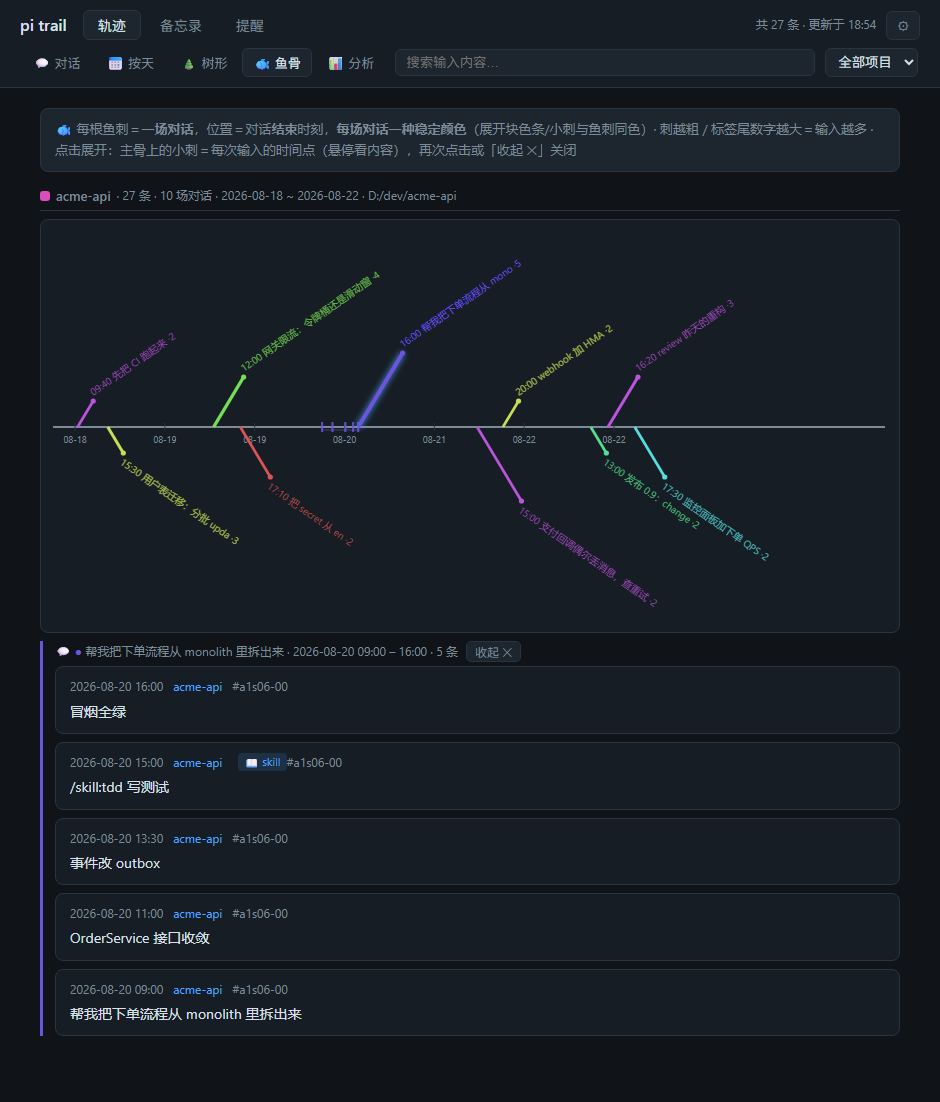
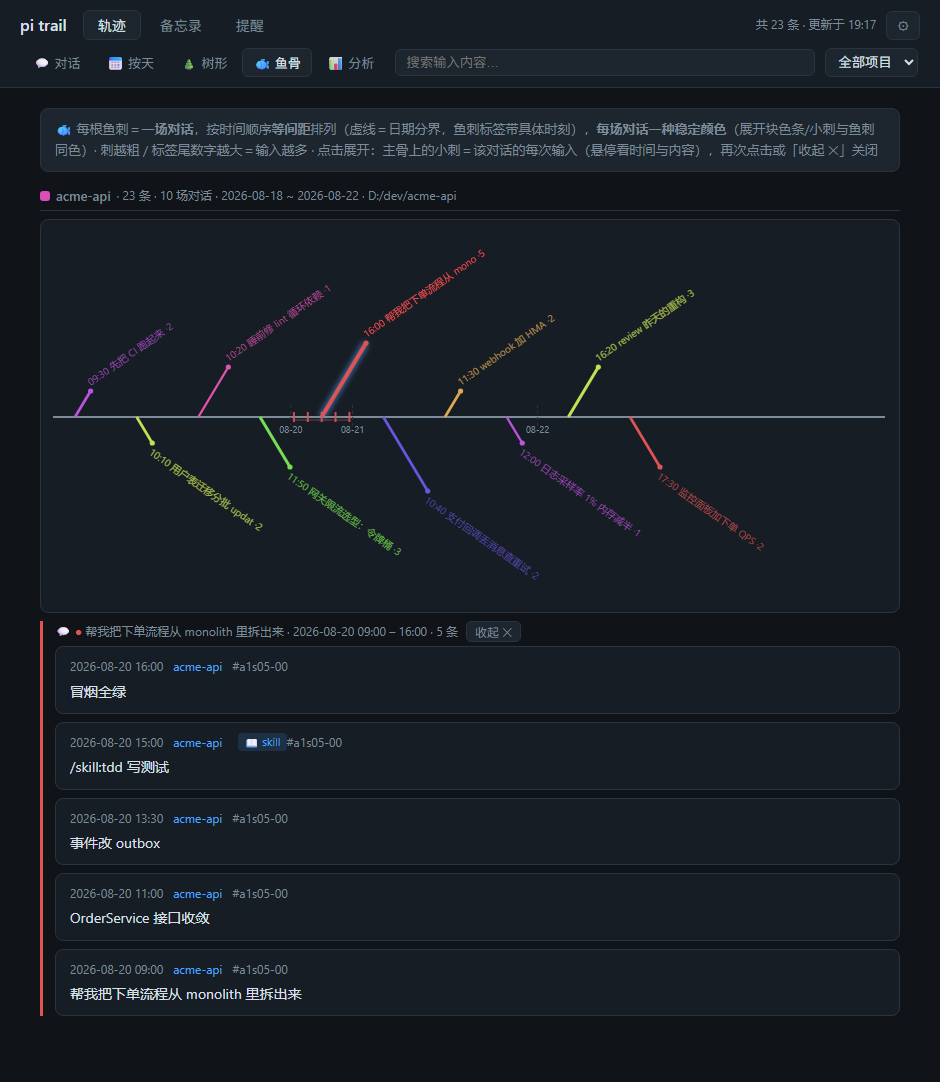
feat: 鱼骨改序数刻度——鱼刺按时间顺序严格等间距，日期分界虚线替代线性时间轴；展开小刺改为对话地盘内等间距；视图默认滚到最右（最新）；README 双语同步更新 + 配图重截

diff --git a/public/index.html b/public/index.html
@@ -465,7 +465,7 @@ function renderFish(list) {
     projs.get(e.cwd).push(e);
   }
   const arr = [...projs.entries()].sort((a, b) => b[1][0].ts - a[1][0].ts); // 最近活跃在前
-  let html = `<div class="introBar">🐟 每根鱼刺＝<b>一场对话</b>，位置＝对话<b>结束</b>时刻，<b>每场对话一种稳定颜色</b>（展开块色条/小刺与鱼刺同色）· 刺越粗 / 标签尾数字越大＝输入越多 · 点击展开：主骨上的小刺＝每次输入的时间点（悬停看内容），再次点击或「收起 ✕」关闭</div>`;
+  let html = `<div class="introBar">🐟 每根鱼刺＝<b>一场对话</b>，按时间顺序<b>等间距</b>排列（虚线＝日期分界，鱼刺标签带具体时刻），<b>每场对话一种稳定颜色</b>（展开块色条/小刺与鱼刺同色）· 刺越粗 / 标签尾数字越大＝输入越多 · 点击展开：主骨上的小刺＝该对话的每次输入（悬停看时间与内容），再次点击或「收起 ✕」关闭</div>`;
   for (const [cwd, items] of arr) {
     const col = projectColor(cwd);
     const convs = new Map();
@@ -476,13 +476,13 @@ function renderFish(list) {
     }
     const cs = [...convs.entries()]
       .map(([sid, es]) => ({ sid, es, start: es.reduce((m, e) => Math.min(m, e.ts), Infinity), end: es.reduce((m, e) => Math.max(m, e.ts), 0) }))
-      .sort((a, b) => a.end - b.end); // 按结束时间排列——鱼刺位置＝对话收尾时刻
+      .sort((a, b) => a.end - b.end); // 按结束时间排序（时间顺序），鱼刺等间距排列（序数刻度）
     const PAD = 30;
     const n = cs.length;
     const nTiers = n > 18 ? 5 : n > 10 ? 4 : 3;
     const tiers = Array.from({ length: nTiers }, (_, i) => 26 + i * 24);
     const maxTier = tiers[tiers.length - 1];
-    const t0 = Math.min(...cs.map((c) => c.start)), t1 = Math.max(...cs.map((c) => c.end), t0 + 1); // 轴域覆盖全部对话的开始到结束
+    const t0 = Math.min(...cs.map((c) => c.start)), t1 = Math.max(...cs.map((c) => c.end), t0 + 1); // 项目头部日期范围用
     const titleLen = n > 18 ? 8 : 12;
     const labelOf = (c) => {
       const t = convTitle(c.es);
@@ -493,25 +493,24 @@ function renderFish(list) {
     const mainW = document.querySelector("main")?.clientWidth || 900;
     const W = Math.max(640, mainW - 52);
     const rightReserve = Math.round(maxLabelW * 0.86 + maxTier * 0.6) + 50;
-    const X = (ts) => PAD + (Math.max(PAD, W - PAD - rightReserve) - PAD) * ((ts - t0) / (t1 - t0));
+    const usable = Math.max(PAD, W - PAD - rightReserve);
     const cos35 = 0.819, sin35 = 0.574;
     const dy = Math.round(maxLabelW * sin35) + 14;
     const spineY = maxTier + dy + 6;
     const H = spineY + maxTier + dy + 8;
-    // 同侧最小间距防重叠（时间序单调，必要时加宽画布）
-    const minGap = 44;
-    const lastX = { u: -Infinity, d: -Infinity };
+    // 序数刻度：鱼刺按时间顺序严格等间距（美观优先；时间关系由鱼刺标签的 HH:MM + 日期分界线表达）
+    const minGap = 44, maxGap = 150;
+    const gap = n > 1 ? Math.min(maxGap, Math.max(minGap, (usable - PAD) / (n - 1))) : 0;
+    const groupW = (n - 1) * gap;
+    const gx0 = n > 1 ? PAD + Math.max(0, (usable - PAD - groupW) / 2) : (PAD + usable) / 2; // 组居中
     let nUp = 0, nDown = 0, maxTipX = 0;
+    let bi = 0;
     for (const c of cs) {
       const side = nUp <= nDown ? -1 : 1;
       c.tier = tiers[(side < 0 ? nUp++ : nDown++) % tiers.length];
       c.side = side;
-      const k = side < 0 ? "u" : "d";
-      let x = X(c.end);
-      if (x - lastX[k] < minGap) x = lastX[k] + minGap;
-      lastX[k] = x;
-      c.x = x;
-      maxTipX = Math.max(maxTipX, x + c.tier * 0.6);
+      c.x = gx0 + gap * bi++;
+      maxTipX = Math.max(maxTipX, c.x + c.tier * 0.6);
     }
     const W2 = Math.max(W, Math.round(maxTipX + maxLabelW * 0.86 + 42));
     // 每项目手风琴：同时只展开一场对话（对应关系一目了然）
@@ -529,29 +528,36 @@ function renderFish(list) {
       const bcol = convColor(c.sid);
       bones += `<g class="bone ${open ? "on" : ""}" data-key="${esc(pfx + ":" + c.sid)}" tabindex="0" role="button" aria-expanded="${open}" title="${esc(`${lb.full}\n${projName(cwd)} · ${c.es.length} 条 · ${fmtDate(c.start)} ${fmtTime(c.start)} – ${fmtTime(c.end)}（开始–结束）`)}"><line class="hit" x1="${bx}" y1="${spineY}" x2="${tipX}" y2="${tipY}" stroke="transparent" stroke-width="16"/><line x1="${bx}" y1="${spineY}" x2="${tipX}" y2="${tipY}" stroke="${bcol}" stroke-width="${Math.min(2 + c.es.length * 0.35, 5)}"/><circle cx="${tipX}" cy="${tipY}" r="2.6" fill="${bcol}"/><text x="${tipX + 3}" y="${ly}" transform="rotate(${rot} ${tipX} ${tipY})" fill="${bcol}" font-size="10">${esc(lb.s)}</text></g>`;
     }
-    // 展开对话的小刺：主骨上标记该对话每次输入的时间点，跨度线连到鱼刺根部
+    // 展开对话的小刺：在鱼刺根两侧的「地盘」内按输入顺序等间距排布，跨度线覆盖首尾小刺
     let subSpurs = "";
     if (openSid) {
       const oc = cs.find((x) => x.sid === openSid);
       if (oc) {
         const scol = convColor(oc.sid);
-        const x0 = Math.max(8, X(oc.start));
-        subSpurs += `<line x1="${x0}" y1="${spineY + 3}" x2="${oc.x}" y2="${spineY + 3}" stroke="${scol}" stroke-width="1.5" opacity="0.35"/>`;
-        for (const e of oc.es) {
-          const x = Math.min(W2 - 8, Math.max(8, X(e.ts)));
+        const half = Math.max(12, Math.min((gap || 90) * 0.45, 60));
+        const sorted = oc.es.slice().sort((a, b) => a.ts - b.ts);
+        const m = sorted.length;
+        const xOf = (k) => (m === 1 ? oc.x : oc.x - half + (2 * half * k) / (m - 1));
+        subSpurs += `<line x1="${xOf(0)}" y1="${spineY + 3}" x2="${xOf(m - 1)}" y2="${spineY + 3}" stroke="${scol}" stroke-width="1.5" opacity="0.35"/>`;
+        sorted.forEach((e, k) => {
+          const x = xOf(k);
           subSpurs += `<line x1="${x}" y1="${spineY - 5}" x2="${x}" y2="${spineY + 5}" stroke="${scol}" stroke-width="2" opacity="0.9"><title>${esc(`${fmtTime(e.ts)} ${e.text.slice(0, 24).replace(/\n/g, " ")}`)}</title></line>`;
-        }
+        });
       }
     }
-    // 时间刻度：跨度 > 1.5 天显示日期，否则显示时刻
-    const spanDays = (t1 - t0) / 86400000;
+    // 日期分界（序数轴的时间参照）：相邻两日鱼刺的中点画短虚线，标签标新一日
     let ticks = "";
-    for (let i = 0; i <= 6; i++) {
-      const tt = t0 + ((t1 - t0) * i) / 6;
-      const tx = X(tt); // 与鱼刺同一映射域，刻度位置才与真实时间对应
-      const dd = new Date(tt);
-      const lb = spanDays > 1.5 ? `${pad(dd.getMonth() + 1)}-${pad(dd.getDate())}` : `${pad(dd.getHours())}:${pad(dd.getMinutes())}`;
-      ticks += `<line class="tick" x1="${tx}" y1="${spineY - 4}" x2="${tx}" y2="${spineY + 4}"/><text class="tickLabel" x="${tx}" y="${spineY + 16}" text-anchor="middle">${lb}</text>`;
+    {
+      const dk = (ts) => { const d = new Date(ts); return `${pad(d.getMonth() + 1)}-${pad(d.getDate())}`; };
+      let prev = null;
+      cs.forEach((c, idx) => {
+        const k = dk(c.end);
+        if (prev && k !== prev.key) {
+          const at = (cs[idx - 1].x + c.x) / 2;
+          ticks += `<line x1="${at}" y1="${spineY - 12}" x2="${at}" y2="${spineY + 12}" stroke="var(--border)" stroke-width="1" stroke-dasharray="3 3"/><text class="tickLabel" x="${at}" y="${spineY + 16}" text-anchor="middle">${k}</text>`;
+        }
+        prev = { key: k };
+      });
     }
     // 展开的对话：左侧项目色条 + 头部镜像鱼刺标签（时间+标题），与点中的鱼刺一一对应
     let expandedHtml = "";
@@ -616,6 +622,8 @@ function render() {
 
   if (state.tab === "timeline" && state.view === "fish") {
     main.innerHTML = renderFish(list);
+    // 鱼刺按时间序向右延伸：默认滚到最右（最新对话），免拖动；展开/收起重渲染时由外层恢复用户位置
+    document.querySelectorAll(".fishWrap").forEach((el) => { if (el.scrollWidth > el.clientWidth) el.scrollLeft = el.scrollWidth; });
     return;
   }
   if (state.tab === "timeline" && state.view === "analysis") {

diff --git a/README.en.md b/README.en.md
@@ -20,7 +20,7 @@ You talk to your coding agent dozens of times a day across many projects — the
 
 - 📝 **Captures your inputs only** — typed in TUI or pi-web. Skill invocations (`/skill:name`) are recorded as one line, never the expanded prompt body. Subagent sessions (in-memory or persisted with `type#hash` names) and extension-injected messages are excluded on both write and read paths.
 - 🧭 **Five timeline views** — 💬 *Conversations* (flat, titled by session name or first input), 📅 *By day*, 🌲 *Tree* (machine → project → conversation), 🐟 *Fishbone*, 📊 *Analysis*.
-- 🐟 **Fishbone timeline** — one spine per project folder, one bone per conversation anchored at its **end time**; every conversation gets a stable color shared by its bone, label, and expanded panel. Bone thickness and the label suffix encode input count. Click a bone to expand it: small spurs appear on the spine marking **each input's timestamp** (hover for content), with a span line back to the bone. Collapsible, keyboard-accessible, and dense days auto-declutter via tiered lengths and minimum gaps.
+- 🐟 **Fishbone timeline** — one spine per project folder, one bone per conversation, **evenly spaced in chronological order** (ordinal scale: exact times live on each bone's label, day boundaries are drawn as dashed separators, and the view opens scrolled to the newest end); every conversation gets a stable color shared by its bone, label, and expanded panel. Bone thickness and the label suffix encode input count. Click a bone to expand it: small spurs on the spine mark each input of that conversation (hover for time and content). Collapsible and keyboard-accessible.
 - 🖥 **Multi-machine aware** — every entry carries a machine GUID + hostname; machines with duplicate hostnames never collide.
 - 🔁 **Git-backed, multi-host sync** — data lives in its own git repo (`~/.pi/trail`). Point it at any remote and multiple machines append, rebase onto each other and push automatically. Append-only JSONL + `merge=union` means concurrent appends never conflict.
 - 📌 **Memos & reminders** — pin any input as a memo, set due-date reminders; annotations are append-only events, so they sync safely too.
